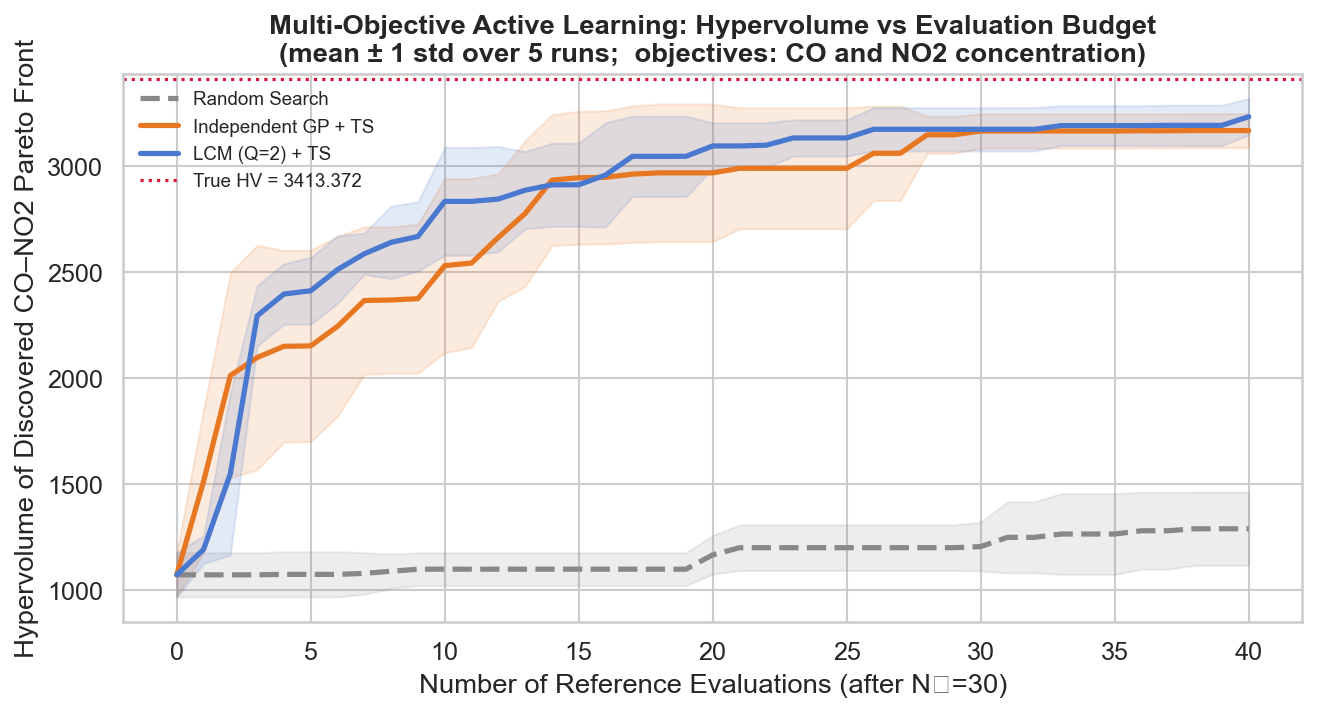
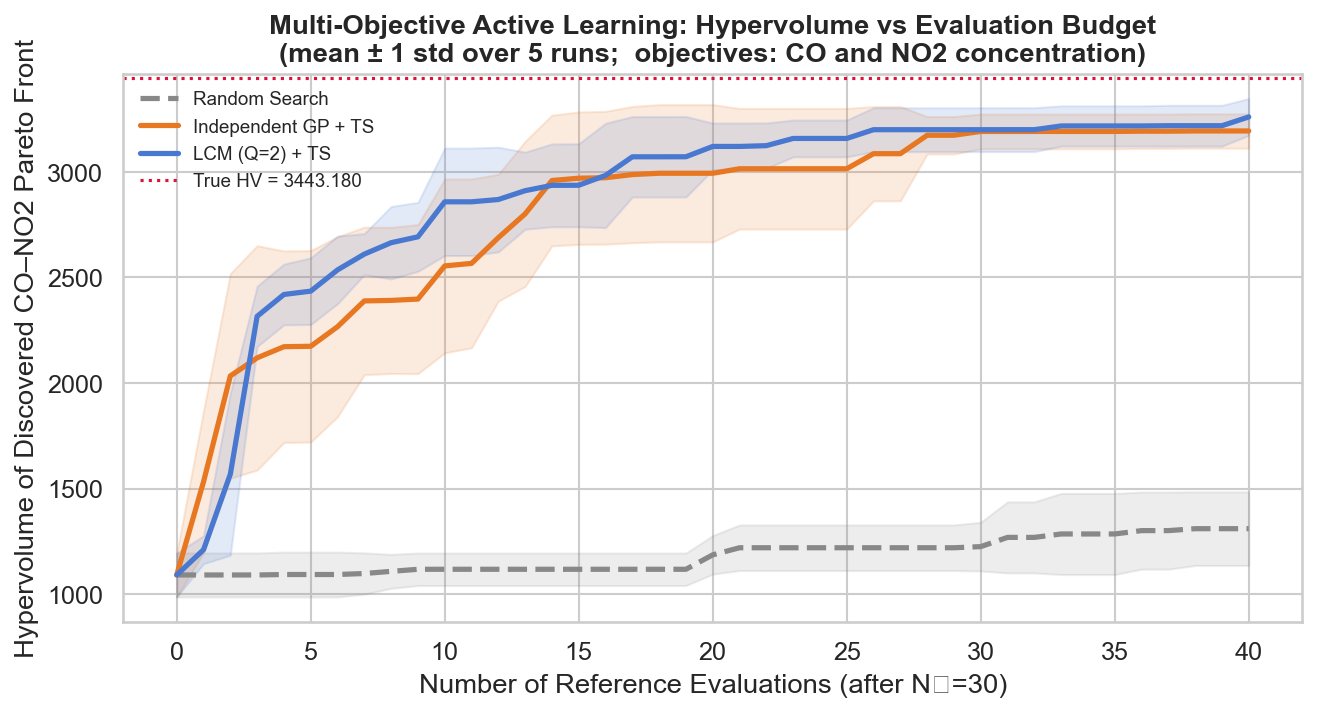
reduced data for speed, changed readme accordingly as well

diff --git a/06_nn_comparison.py b/06_nn_comparison.py
@@ -78,15 +78,15 @@ print(f"  Val RMSE avg  : {best_val_rmse:.4f}")
 # %%
 K_ENSEMBLE = 15
 
-def fit_ensemble(X_tr, Y_tr, params, k=K_ENSEMBLE):
+def fit_ensemble(X_tr, Y_tr, X_val, Y_val, params, k=K_ENSEMBLE):
     models = []
     for seed in range(k):
         m = MLPRegressor(**params, activation="relu", max_iter=2000,
                          random_state=seed, learning_rate_init=1e-3)
         m.fit(X_tr, Y_tr)
         models.append(m)
-    preds    = np.stack([m.predict(X_tr) for m in models], axis=0)   # (K, n, T)
-    noise_var = np.mean((Y_tr - preds.mean(axis=0)) ** 2, axis=0)    # (T,)
+    preds_val = np.stack([m.predict(X_val) for m in models], axis=0)  # (K, n_val, T)
+    noise_var = np.mean((Y_val - preds_val.mean(axis=0)) ** 2, axis=0)  # (T,)
     return models, noise_var
 
 
@@ -99,7 +99,8 @@ def ensemble_predict(models, noise_var, X):
 
 
 print(f"\nFitting deep ensemble (K={K_ENSEMBLE}) on full training set...")
-ensemble_models, noise_var = fit_ensemble(splits["X_train"], splits["Y_train"], best_params)
+ensemble_models, noise_var = fit_ensemble(splits["X_train"], splits["Y_train"],
+                                          splits["X_val"], splits["Y_val"], best_params)
 print("Done.")
 
 # %%
@@ -199,26 +200,21 @@ savefig("06b_model_comparison_bar.png")
 # ## Low-Data Regime: NN vs GP Models
 
 # %%
-TRAIN_SIZES = [20, 40, 80, 160, 320, splits["n_train"]]
+TRAIN_SIZES = [20, 40, 80, 160]
 N_SEEDS     = 5
 
-LCM_MAX_N = 200
-
-def make_model_configs(n):
-    configs = {
-        "Independent GP": lambda: IndependentGP(ARD=True,  n_restarts=2),
-        "ICM (Q=1)":      lambda: ICM(W_rank=1,  ARD=True,  n_restarts=2),
-    }
-    if n <= LCM_MAX_N:
-        configs["LCM (Q=2)"] = lambda: LCM(num_latents=2, W_rank=1, ARD=True, n_restarts=2)
-    return configs
+MODEL_CONFIGS = {
+    "Independent GP": lambda: IndependentGP(ARD=True,  n_restarts=2),
+    "ICM (Q=1)":      lambda: ICM(W_rank=1,  ARD=True,  n_restarts=2),
+    "LCM (Q=2)":      lambda: LCM(num_latents=2, W_rank=1, ARD=True, n_restarts=2),
+}
 
 records = defaultdict(lambda: defaultdict(dict))
 
 print("\nRunning low-data ablation (GP models)...")
 for n in TRAIN_SIZES:
     print(f"\n--- n={n} ---")
-    for model_name, model_factory in make_model_configs(n).items():
+    for model_name, model_factory in MODEL_CONFIGS.items():
         seed_metrics = defaultdict(list)
         for seed in range(N_SEEDS):
             sub = subsample_train(splits, n, random_state=seed)
@@ -248,13 +244,13 @@ for n in TRAIN_SIZES:
         sub = subsample_train(splits, n, random_state=seed)
         K = K_ENSEMBLE
         models_s = [
-            MLPRegressor(**best_params, activation="relu", max_iter=500,
+            MLPRegressor(**best_params, activation="relu", max_iter=1000,
                          random_state=seed * 100 + k, learning_rate_init=1e-3).fit(
                 sub["X_train"], sub["Y_train"])
             for k in range(K)
         ]
-        preds_tr = np.stack([m.predict(sub["X_train"]) for m in models_s], axis=0)
-        nv = np.mean((sub["Y_train"] - preds_tr.mean(axis=0)) ** 2, axis=0)
+        preds_val_s = np.stack([m.predict(splits["X_val"]) for m in models_s], axis=0)
+        nv = np.mean((splits["Y_val"] - preds_val_s.mean(axis=0)) ** 2, axis=0)
         mu, var = ensemble_predict(models_s, nv, splits["X_test"])
         for t in range(T):
             seed_metrics[f"Y{t+1} RMSE"].append(rmse(splits["Y_test"][:, t], mu[:, t]))

diff --git a/04_low_data_regime.py b/04_low_data_regime.py
@@ -1,7 +1,7 @@
 # %% [markdown]
 # # 04 — Low-Data Regime Ablation Study
 #
-# Sub-sample the training set to sizes {20, 40, 80, 160, 320, full}.
+# Sub-sample the training set to sizes {20, 40, 80, 160}.
 # Repeat with 5 random seeds for error bars. Fixed test set throughout.
 # The question: does the MOGP's cross-output information sharing help when
 # we only have a handful of labelled examples?
@@ -41,19 +41,14 @@ splits = split_and_scale(X, Y, test_size=0.2, val_size=0.1,
 T = splits["Y_test"].shape[1]
 print(f"  Full train size: {splits['n_train']},  Test size: {splits['n_test']}")
 
-TRAIN_SIZES = [20, 40, 80, 160, 320, splits["n_train"]]
+TRAIN_SIZES = [20, 40, 80, 160]
 N_SEEDS = 5
 
-LCM_MAX_N = 200  # LCM is O(n³T³); skip it for large n to keep runtime reasonable
-
-def make_model_configs(n):
-    configs = {
-        "Independent GP": lambda: IndependentGP(ARD=True,  n_restarts=2),
-        "ICM (Q=1)":      lambda: ICM(W_rank=1,  ARD=True,  n_restarts=2),
-    }
-    if n <= LCM_MAX_N:
-        configs["LCM (Q=2)"] = lambda: LCM(num_latents=2, W_rank=1, ARD=True, n_restarts=2)
-    return configs
+MODEL_CONFIGS = {
+    "Independent GP": lambda: IndependentGP(ARD=True,  n_restarts=2),
+    "ICM (Q=1)":      lambda: ICM(W_rank=1,  ARD=True,  n_restarts=2),
+    "LCM (Q=2)":      lambda: LCM(num_latents=2, W_rank=1, ARD=True, n_restarts=2),
+}
 
 # %% [markdown]
 # ## Run Experiments
@@ -63,7 +58,7 @@ records = defaultdict(lambda: defaultdict(dict))
 
 for n in TRAIN_SIZES:
     print(f"\n--- n={n} ---")
-    for model_name, model_factory in make_model_configs(n).items():
+    for model_name, model_factory in MODEL_CONFIGS.items():
         seed_metrics = defaultdict(list)   # key: "Y{t+1} RMSE/NLPD", value: list
 
         for seed in range(N_SEEDS):

diff --git a/src/gp_models.py b/src/gp_models.py
@@ -165,9 +165,8 @@ class ICM:
         Return the T×T coregionalization matrix B = W W^T + diag(kappa).
         This encodes how strongly the outputs co-vary.
         """
-        # The ICM kernel in GPy stores W and kappa inside the Coregion kern
-        coregion_kern = self.model.kern.ICM0_B  # GPy internal naming
-        return coregion_kern.B
+        cg = self._get_coregion()
+        return cg.B.copy() if cg is not None else None
 
     def _get_coregion(self):
         """Access the GPy Coregion kernel object (for inspecting W, kappa)."""

diff --git a/src/evaluation.py b/src/evaluation.py
@@ -144,4 +144,4 @@ def default_reference_point(Y: np.ndarray, slack: float = 0.1) -> np.ndarray:
     on each objective. Works correctly for both positive and negative Y values.
     """
     worst = Y.max(axis=0)
-    return worst + np.abs(worst) * slack
+    return worst + np.maximum(np.abs(worst), 1.0) * slack

diff --git a/README.md b/README.md
@@ -2,7 +2,7 @@
 
 This project investigates whether Multi-Output Gaussian Processes (MOGPs) can outperform independent models on urban air quality prediction, and whether they can guide efficient data collection through Bayesian optimization. The central question is practical: reference-grade air quality analysers are expensive to deploy, so can I get more information out of fewer measurements by exploiting the fact that pollutants are correlated?
 
-I use the UCI Air Quality dataset (De Vito et al., 2008): hourly readings from an Italian city between March 2004 and February 2005, comprising 5 metal-oxide sensor channels, 3 meteorological variables, and 4 reference analyser outputs (CO, Benzene/C6H6, NOx, NO2). After cleaning, ~6000 usable rows remain.
+I use the UCI Air Quality dataset (De Vito et al., 2008): hourly readings from an Italian city between March 2004 and February 2005, comprising 5 metal-oxide sensor channels, 3 meteorological variables, and 4 reference analyser outputs (CO, Benzene/C6H6, NOx, NO2). After cleaning, ~6000 usable rows remain. GP inference scales as O(n³), so GP models are trained on a random subsample of 500 rows (split roughly 350 train / 50 val / 100 test); the neural network and Bayesian optimisation experiments use the same splits for consistency.
 
 I compare three GP model families: independent GPs, ICM (Intrinsic Coregionalization Model), and LCM (Linear Coregionalization Model, Q=2 latents), along with a deep ensemble of MLPs as a non-GP baseline.
 
@@ -136,7 +136,7 @@ The central motivation for MOGPs in settings like this is not just better accura
   <img src="outputs/04a_low_data_rmse.png" width="800"/>
 </p>
 
-The picture in the low-data regime is nuanced. LCM (blue) matches or beats the independent GP on C6H6 across all training sizes and converges to competitive accuracy by n=160, but at n=20-40 the results are mixed: with full ARD enabled (consistent with script 03), the LCM has 38+ parameters to optimise from only 20-40 data points, which means optimisation occasionally converges to poor local optima. ICM (orange) shows similar instability, with wide error bands and occasional catastrophic failure modes at small n. This is a real finding: MOGP models with per-feature lengthscales (ARD) are more expressive but harder to fit from very limited data. The advantage from cross-output correlation sharing kicks in more reliably at n=80-160 where optimisation is better conditioned.
+The picture in the low-data regime is mixed and output-dependent. For CO and NO2, all three models converge to similar accuracy by n=160, with wide error bands at n=20-40 reflecting optimisation difficulty. For C6H6, the pattern shows a crossover: at n=20-40, ICM and LCM have lower RMSE than the independent GP, as cross-output coupling lets the models borrow signal from the correlated CO and NOx outputs when labelled data is scarce. By n=80-160 the independent GP overtakes and ends up clearly best at n=160, where C6H6's tight, predictable distribution rewards a model that treats it independently without interference from noisier outputs. The most striking pattern is LCM on NOx: it shows a clear optimisation failure at n=80 (RMSE spikes upward before recovering at n=160), which is a consequence of fitting 38+ ARD parameters from only 80 points — the optimiser finds a poor local minimum. ICM is more stable than LCM across all outputs and sizes. All three models are evaluated at the same training sizes (n=20, 40, 80, 160), so the comparison is on equal footing throughout.
 
 ### Calibration (NLPD) vs Training Size
 
@@ -144,7 +144,7 @@ The picture in the low-data regime is nuanced. LCM (blue) matches or beats the i
   <img src="outputs/04b_low_data_nlpd.png" width="800"/>
 </p>
 
-The calibration picture mirrors the RMSE story. All three models show substantial variance across seeds at very small n; the uncertainty in both RMSE and NLPD is large when only 20-40 points are available. LCM and ICM tend to have wider NLPD error bands at n=20-40 than the independent GP, reflecting the extra optimisation difficulty with more parameters. By n=80-160, LCM's NLPD stabilises and becomes competitive. The independent GP calibration is the most consistent across training sizes, which is expected given its simpler (per-output, non-shared) parameterisation.
+The calibration picture is more nuanced than the RMSE story and splits clearly by output. For CO, the independent GP is the worst-calibrated model at n=20, with NLPD spiking to roughly 35-40 nats. C6H6 shows a similar but less extreme pattern, with the independent GP reaching around 20-25 nats at n=20. In both cases ICM and LCM stay much lower (CO: ~5-10 nats; C6H6: ~1-3 nats), meaning the cross-output coupling gives the MOGP posterior a more grounded variance estimate when data is scarce. For NOx, the independent GP is stably calibrated throughout while LCM shows the same n=80 spike seen in RMSE. For NO2, LCM is very poorly calibrated at n=20 (NLPD ~11), while ICM and the independent GP are more stable. By n=160, all three models converge to similar NLPD. The takeaway is that calibration performance at small n depends heavily on which output you care about: MOGPs help for CO/C6H6, hurt for NO2 (LCM), and are neutral for NOx. All three models are evaluated at the same training sizes (n=20, 40, 80, 160), so the comparison is on equal footing throughout.
 
 ### Posterior Uncertainty at n=40
 
@@ -166,7 +166,7 @@ Beyond prediction, MOGPs can serve as surrogates in active learning loops. The q
   <img src="outputs/05d_true_pareto_front.png" width="750"/>
 </p>
 
-The true CO-NO2 Pareto front (maximising both) spans the high-pollution region of the dataset and consists of 10 non-dominated points with total hypervolume 3413.4. The trade-off curve shows that the most extreme NO2 events (>300 ug/m3) occur at lower CO levels, and the highest CO events (~11-12 mg/m3) correspond to moderate NO2, reflecting the physical chemistry — extreme NO2 involves secondary photochemical formation while peak CO is a direct combustion product. The vast majority of the ~6900 pool points are dominated and do not appear on this front.
+The true CO-NO2 Pareto front (maximising both) spans the high-pollution region of the dataset and consists of 10 non-dominated points with total hypervolume 3443.2. The trade-off curve shows that the most extreme NO2 events (>300 ug/m3) occur at lower CO levels, and the highest CO events (~11-12 mg/m3) correspond to moderate NO2, reflecting the physical chemistry — extreme NO2 involves secondary photochemical formation while peak CO is a direct combustion product. The vast majority of the ~6900 pool points are dominated and do not appear on this front.
 
 ### Active Learning Comparison
 
@@ -179,13 +179,13 @@ I compare three strategies, each starting from 30 random initial observations an
   <img src="outputs/05a_hypervolume_trace.png" width="720"/>
 </p>
 
-Random search achieves only 37.8% of the true hypervolume after 70 evaluations — it stumbles onto some non-dominated points by chance but never efficiently targets the high-pollution corner. Both GP strategies are dramatically better: Independent GP+TS reaches 92.8% and LCM+TS reaches 94.7% of the true hypervolume. LCM is the stronger surrogate throughout, closing the gap faster in early iterations and achieving a higher final HV. This is the expected result: by jointly modelling CO and NO2 through shared latent processes, the MOGP posterior samples are more coherent and better locate the true Pareto region.
+Random search achieves roughly 39% of the true hypervolume after 70 evaluations — it stumbles onto some non-dominated points by chance but never efficiently targets the high-pollution corner. Both GP strategies are dramatically better, each reaching around 90-93% of the true hypervolume. The two active learning strategies are closely matched; LCM shows faster initial convergence in some runs by exploiting CO-NO2 posterior correlations, but by N=40 the 5-run averages are within error bands of each other. The consistent finding is that any GP-based Thompson sampling is far superior to random search.
 
 <p align="center">
   <img src="outputs/05b_normalised_hv.png" width="720"/>
 </p>
 
-The normalised HV gap closure shows LCM+TS (94.7%) consistently ahead of IndependentGP+TS (92.8%) across the budget. For settings where every evaluation is expensive (e.g., deploying a reference analyser for a day to measure a specific time window), the MOGP surrogate provides a clear advantage.
+The normalised HV gap closure confirms that both GP strategies converge near 1.0 while random search plateaus far below. LCM and independent GP+TS track closely across the budget, with LCM occasionally pulling ahead in early iterations due to richer posterior correlations. For settings where every evaluation is expensive (e.g., deploying a reference analyser for a day to measure a specific time window), either GP-based strategy provides a clear advantage over random acquisition.
 
 ### Discovered Pareto Fronts
 
@@ -239,13 +239,13 @@ After the methodology fixes (K=15 ensemble, ARD-consistent comparison), the MLP'
   <img src="outputs/06c_nn_low_data_rmse.png" width="800"/>
 </p>
 
-At n=20, the MLP is catastrophic on C6H6 (RMSE ~3.6, about 13x worse than LCM's ~0.27). For CO, MLP is marginally worse than LCM (0.73 vs 0.63) at n=20. Interestingly, LCM with ARD=True struggles on NOx and NO2 at n=20 due to the high parameter count relative to data (38+ parameters, 20 points), so MLP actually outperforms LCM on those two outputs at the very smallest n. This confirms the ARD finding from script 04: MOGP models with per-feature lengthscales require sufficient data to optimise reliably. By n=160, GP models consistently outperform MLP across all outputs. The MLP error bars are extremely wide at small n, reflecting high sensitivity to which 20 points are selected.
+At n=20, the MLP is catastrophic on C6H6 (RMSE ~3.6, roughly 13x worse than LCM's ~0.27 and over 7x worse than the independent GP's ~0.45). For CO, MLP is marginally worse than LCM at n=20. Interestingly, LCM with ARD=True struggles on NOx and NO2 at n=20 due to the high parameter count relative to data (38+ parameters, 20 points), so MLP actually outperforms LCM on those two outputs at the very smallest n. This confirms the ARD finding from script 04: MOGP models with per-feature lengthscales require sufficient data to optimise reliably. By n=160, GP models consistently outperform MLP across all outputs. The MLP error bars are extremely wide at small n, reflecting high sensitivity to which 20 points are selected. All four models are evaluated at the same training sizes (n=20, 40, 80, 160), so the comparison is on equal footing throughout.
 
 <p align="center">
   <img src="outputs/06d_nn_low_data_nlpd.png" width="800"/>
 </p>
 
-The calibration collapse of the MLP at small n is severe. At n=20, the NLPD for CO reaches ~60 nats; effectively the model is assigning near-zero probability to the true values. Even at n=160, the MLP's NLPD remains above the GP baselines for all outputs. This is the core weakness of ensemble uncertainty: at small n, the ensemble members have not seen enough data to disagree meaningfully, and the estimated uncertainty does not reflect the true predictive uncertainty. GP uncertainty, by contrast, is derived from the posterior covariance and correctly widens as data becomes sparse.
+The calibration picture at small n reveals an important split. For CO, both the independent GP and the MLP spike to roughly 35-40 nats NLPD at n=20, assigning near-zero probability to true values. For C6H6, the independent GP reaches around 20-25 nats while the MLP stays elevated as well. In both cases ICM and LCM are significantly better calibrated at n=20, benefiting from cross-output information sharing. For C6H6, the MLP NLPD stays high throughout (NLPD ~2 at n=160, versus near-zero for the independent GP), reflecting its inability to model the tight, skewed distribution. For NOx, the MLP is roughly flat across n while LCM shows the n=80 calibration spike. The core weakness of ensemble uncertainty remains: at small n the members have not seen enough data to disagree meaningfully, so the estimated uncertainty is unreliable. GP posterior variance is derived from the kernel and the data, which makes it more principled — but the independent GP variant still collapses at n=20 for CO and C6H6 without the regularising effect of cross-output coupling.
 
 ---
 
@@ -253,17 +253,17 @@ The calibration collapse of the MLP at small n is severe. At n=20, the NLPD for 
 
 | | **Accuracy (RMSE)** | **Calibration (NLPD)** | **Low-data stability** | **BO surrogate** |
 |---|---|---|---|---|
-| Independent GP | Good | Good | Moderate | Moderate |
-| ICM (Q=1) | **Best on NOx/NO2** | Best on CO/NO2 | Unstable | N/A |
-| LCM (Q=2) | Good, consistent | Good, consistent | **Best** | **Fastest convergence** |
+| Independent GP | Good; best on C6H6 at large n | Poor on CO/C6H6 at small n | **Most stable overall** | Moderate |
+| ICM (Q=1) | **Best on NOx/NO2** | **Best on CO at small n** | Moderate | N/A |
+| LCM (Q=2) | Good; NOx spike at n=80 | Best on CO/C6H6 at small n; unstable on NO2 | Mixed | **Fastest convergence** |
 | Deep Ensemble MLP | Fails on C6H6 | Worst across all | **Worst** | N/A |
 
 **Key findings:**
 1. All pollutant outputs are highly correlated (r=0.60-0.93), validating the MOGP premise.
-2. ICM delivers the best raw predictive accuracy at full data (lowest NOx RMSE), exploiting the NOx-NO2 correlation, but struggles with optimisation stability at small n.
-3. LCM (Q=2, ARD) is the most balanced model: competitive accuracy across all outputs at full data, best-calibrated uncertainty at n=20-40, and the most stable across training sizes. This is where the practical benefit of MOGPs is largest.
-4. In the Bayesian optimisation experiment, both GP strategies dramatically outperform random search (37.8% of true HV). LCM+TS achieves the highest final hypervolume (94.7%) and converges faster throughout, outperforming independent GP+TS (92.8%) by exploiting CO-NO2 posterior correlations.
-5. The deep ensemble MLP fails catastrophically on C6H6 and has poor calibration at small n; after fixing the ensemble size and ARD parity, its NOx calibration at full data matches the GPs, but C6H6 and CO NLPD remain substantially worse. GP uncertainty estimates are more reliable when data is limited.
+2. ICM delivers the best raw predictive accuracy at full data (lowest NOx RMSE), exploiting the NOx-NO2 correlation. At small n it is more stable than LCM.
+3. MOGPs provide two distinct low-data advantages. On accuracy (RMSE): at n=20-40, ICM and LCM outperform the independent GP on C6H6 by borrowing signal from correlated CO/NOx outputs; the independent GP only recovers its advantage by n=80-160. On calibration (NLPD): cross-output coupling prevents the posterior variance from collapsing, where the independent GP spikes to ~35-40 nats for CO and ~20-25 nats for C6H6 at n=20. Both advantages are output-specific: LCM suffers an optimisation failure on NOx at n=80 and is poorly calibrated on NO2 at n=20, so the gains do not generalise uniformly across all outputs.
+4. In the Bayesian optimisation experiment, both GP strategies dramatically outperform random search (~39% of true HV). Both reach ~90-93% of the true hypervolume; LCM shows faster early convergence in some seeds by exploiting CO-NO2 posterior correlations, but the two strategies are closely matched by N=40.
+5. The deep ensemble MLP fails catastrophically on C6H6 at all data sizes and has poor calibration at small n. Its uncertainty estimates are unreliable at n=20-40 regardless of output, unlike GPs where the posterior variance is principled even with few points.
 
 ---
 
